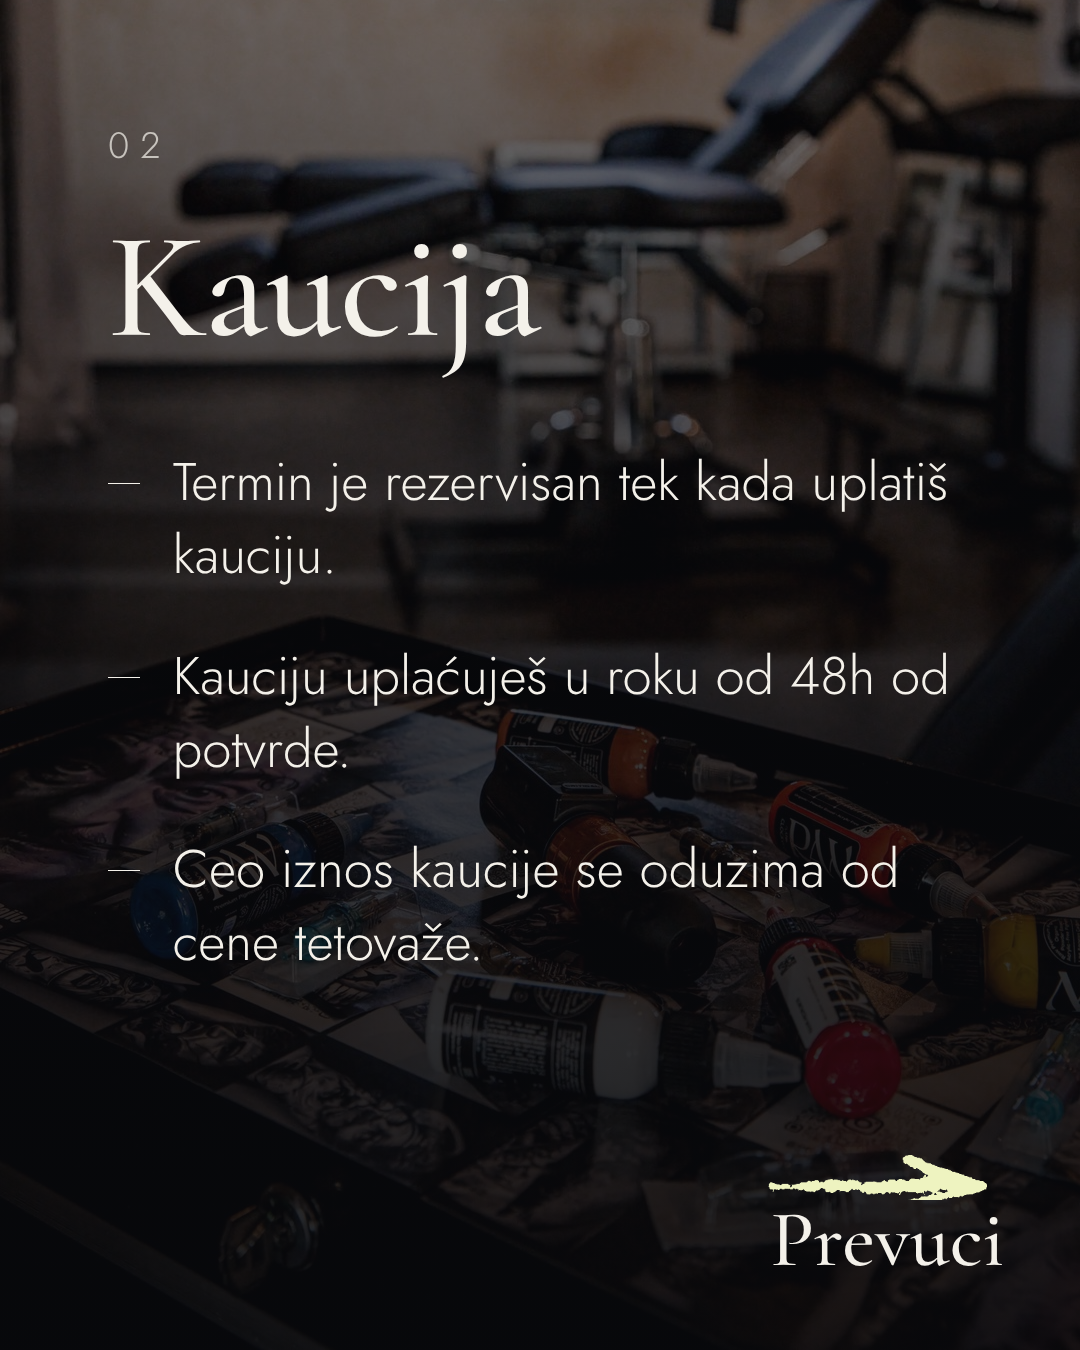
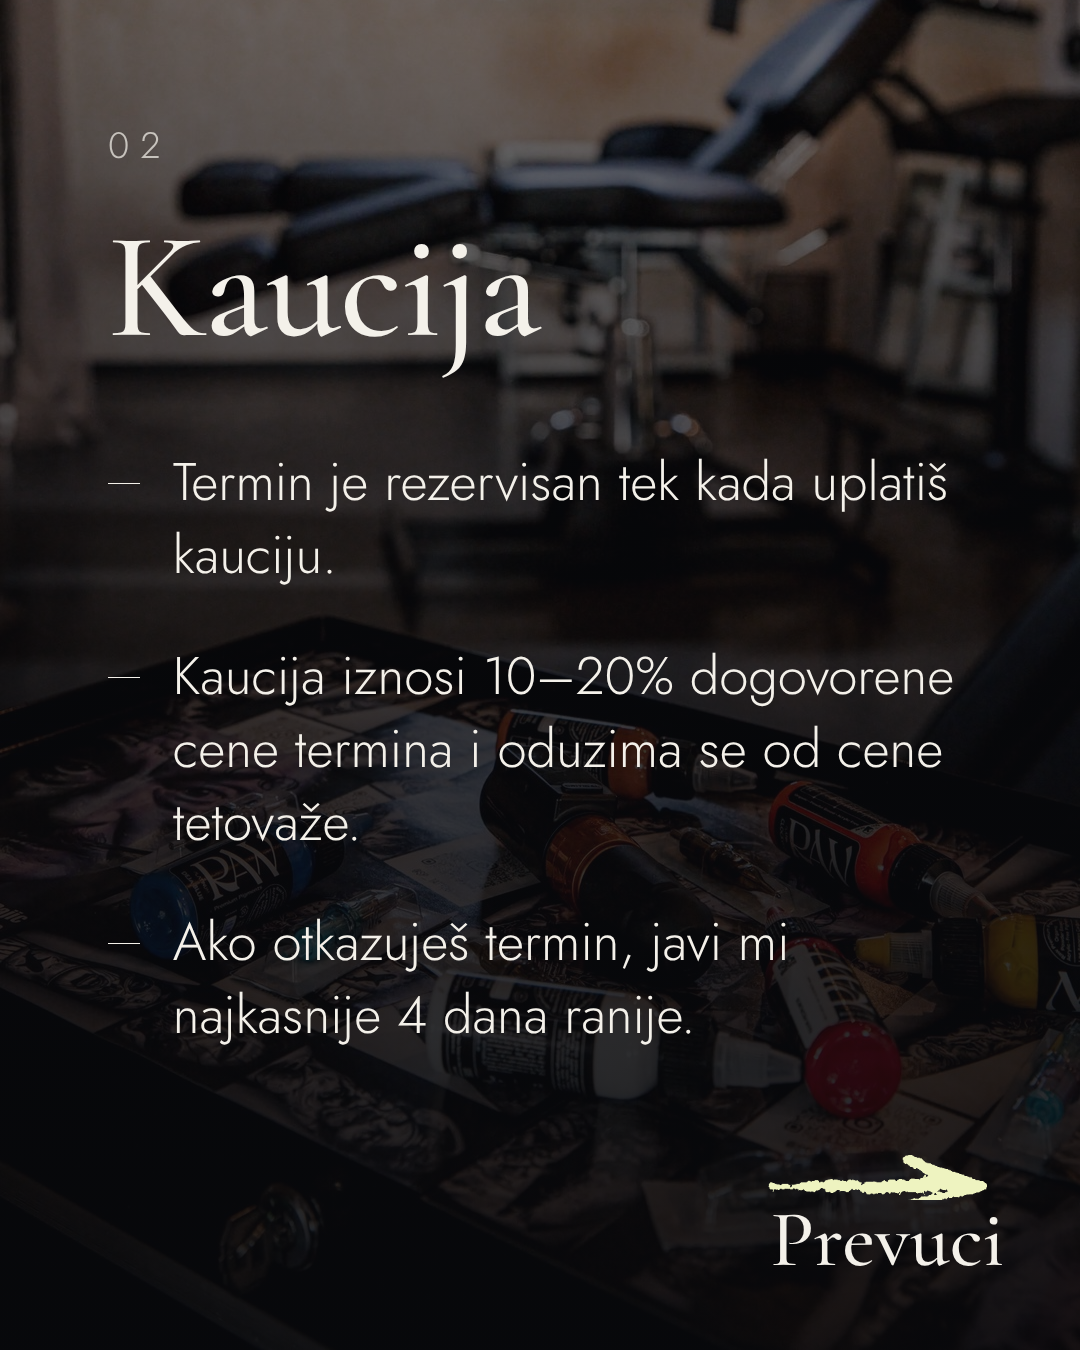
Vodič: kaucija 10–20% cene, otkazivanje najkasnije 4 dana ranije
Claude-Session: https://claude.ai/code/session_01GbeNj6S8KFuWGEtm9SKwPz

diff --git a/vodic/index.html b/vodic/index.html
@@ -67,8 +67,8 @@
   <h2>Kaucija</h2>
   <ul>
     <li>Termin je rezervisan tek kada uplatiš kauciju.</li>
-    <li>Kauciju uplaćuješ u roku od 48h od potvrde.</li>
-    <li>Ceo iznos kaucije se oduzima od cene tetovaže.</li>
+    <li>Kaucija iznosi 10–20% dogovorene cene termina i oduzima se od cene tetovaže.</li>
+    <li>Ako otkazuješ termin, javi mi najkasnije 4 dana ranije.</li>
   </ul>
 </div><div class="swipe"><img src="img/strelica.png" alt=""><span>Prevuci</span></div></section>
 
@@ -76,7 +76,7 @@
   <div class="no">03</div>
   <h2>Otkazivanje</h2>
   <ul>
-    <li>Javi mi najkasnije 48h pre termina i pomeramo ga, kaucija ostaje važeća.</li>
+    <li>Javi mi najkasnije 4 dana pre termina i pomeramo ga, kaucija ostaje važeća.</li>
     <li>Ako otkažeš kasnije ili ne dođeš, kaucija se ne vraća.</li>
   </ul>
 </div><div class="swipe"><img src="img/strelica.png" alt=""><span>Prevuci</span></div></section>
